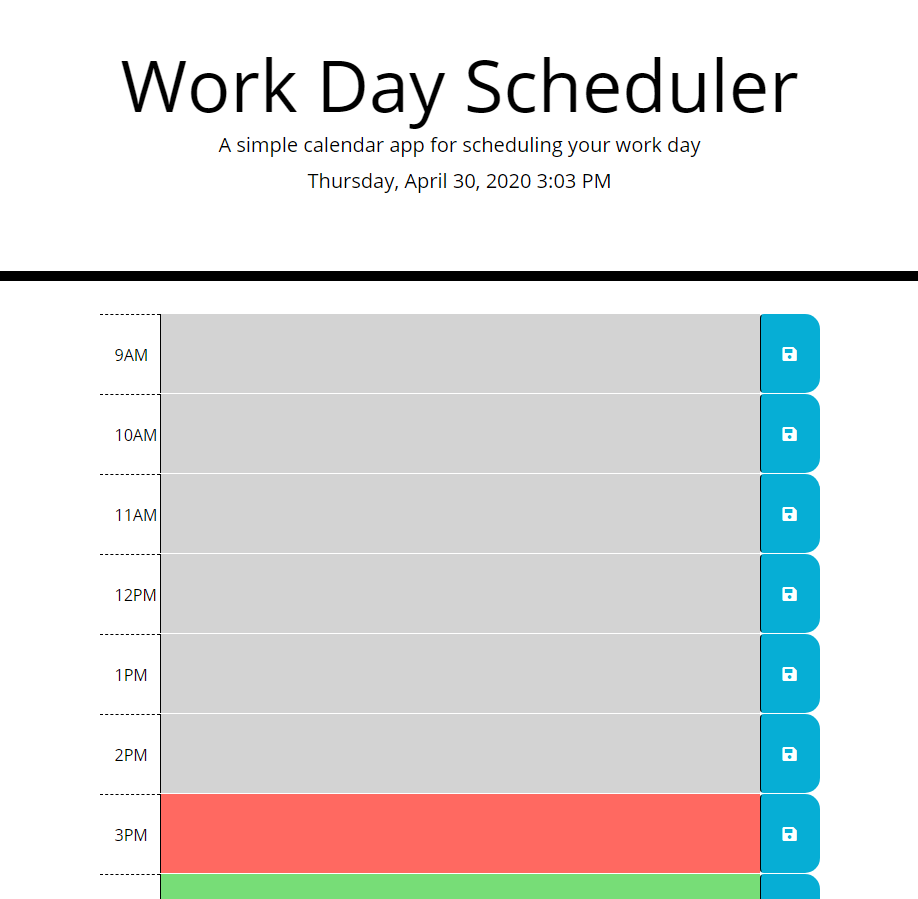
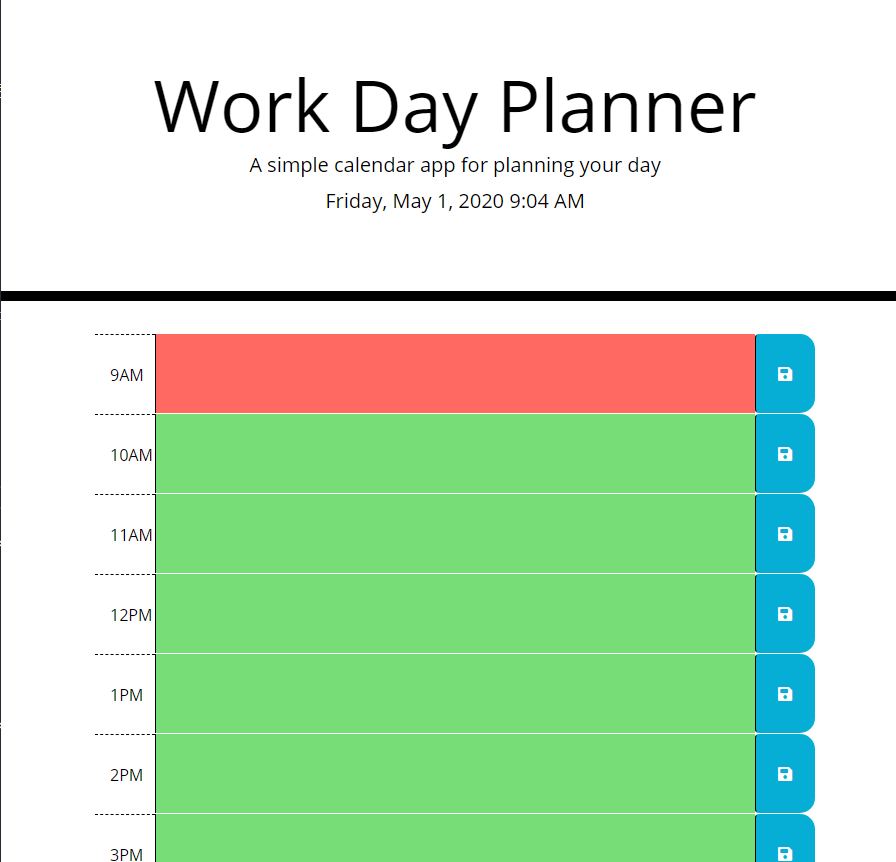
updated readMe

diff --git a/assets/js/script.js b/assets/js/script.js
@@ -1,8 +1,8 @@
-var planner = localStorage.getItem('planner')? JSON.parse(localStorage.getItem("planner")) : {};
+var planner = localStorage.getItem("planner")?JSON.parse(localStorage.getItem("planner")) : {};
 console.log(planner)
 //add ready event listener to the document
 $(document).ready(function () {
-  console.log("document is ready to go!");
+//   console.log("document is ready to go!");
   //render the current time
   var getCurrentTime = function () {
     var currentTime = moment().format("LLLL");

diff --git a/index.html b/index.html
@@ -24,8 +24,8 @@
 
   <body>
     <header class="jumbotron">
-      <h1 class="display-3">Work Day Scheduler</h1>
-      <p class="lead">A simple calendar app for scheduling your work day</p>
+      <h1 class="display-3">Work Day Planner</h1>
+      <p class="lead">A simple calendar app for planning your day</p>
       <p id="currentDay" class="lead">Wednesday, April 29th</p>
     </header>
     <div class="container">
